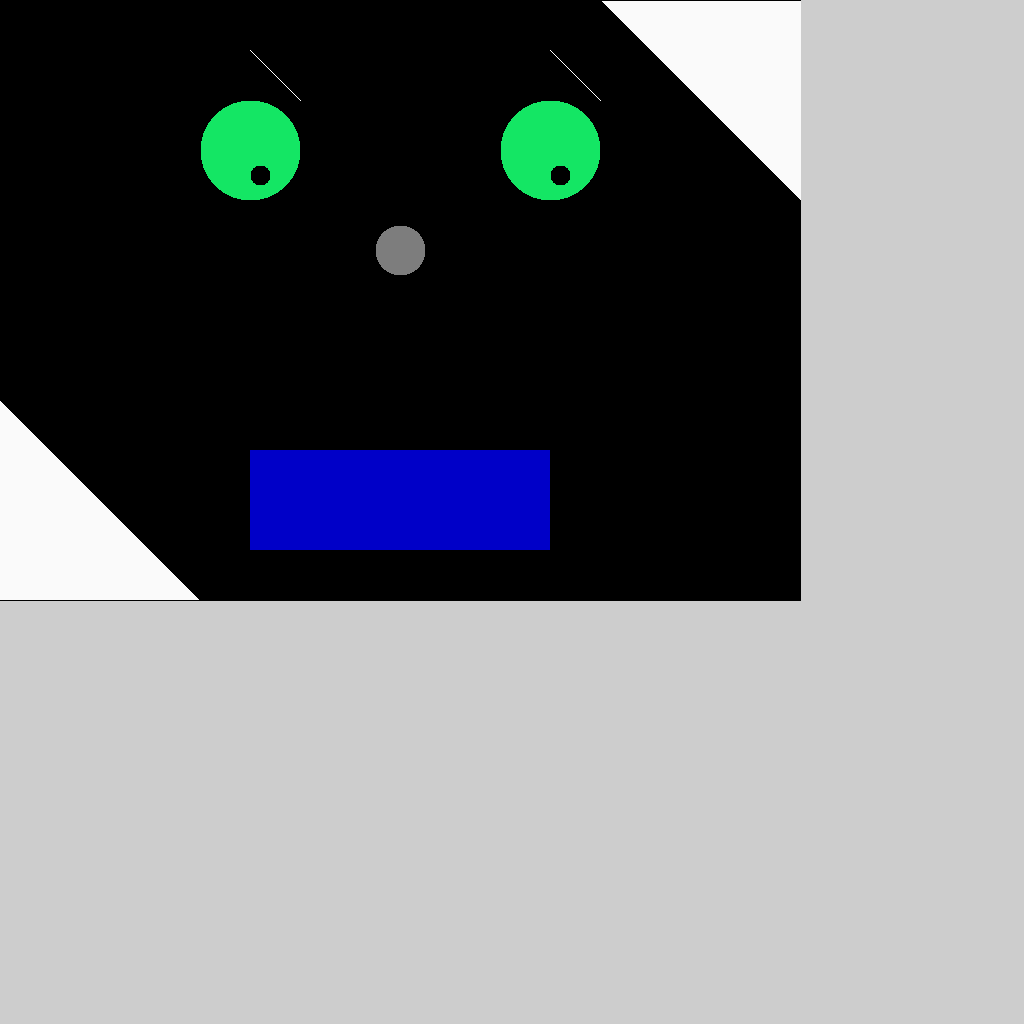
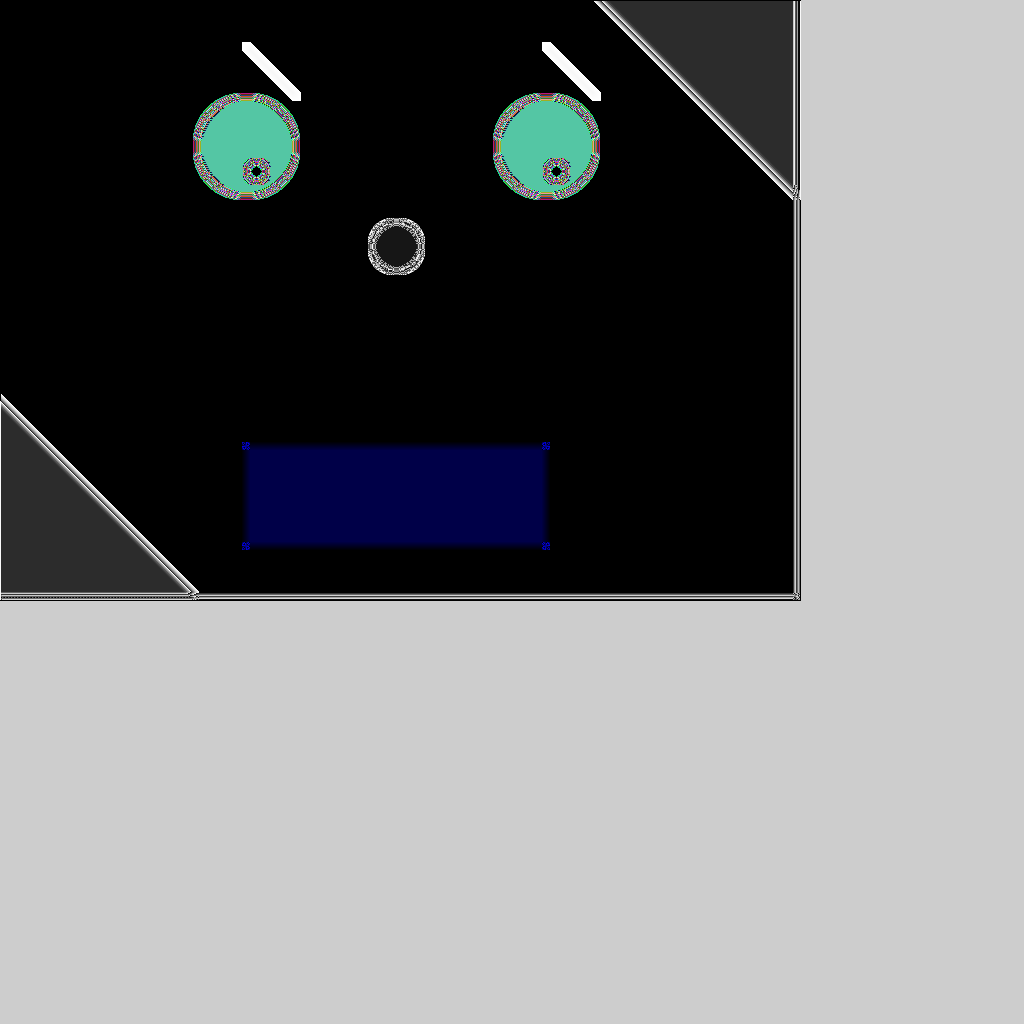
Some weird x-ray effect instead of blur

diff --git a/src/CatPictureApp.cpp b/src/CatPictureApp.cpp
@@ -201,28 +201,38 @@ void CatPictureApp::blurSurface(uint8_t* pixels){
 	static uint8_t work_buffer[3*kTextureSize*kTextureSize];
 	memcpy(work_buffer, pixels, 3*kTextureSize*kTextureSize);
 	int offset;
+	Color8u c;
 	uint8_t* red = 0;
 	uint8_t* green = 0;
 	uint8_t* blue = 0;
 
 	//kernels to blur image
-	float kernelA[9] = {4,4,4,4,4,4,4,4,4};
+	float kernelA[9] = {1/9.0, 1/9.0, 1/9.0, 1/9.0, 1/9.0, 1/9.0, 1/9.0, 1/9.0, 1/9.0};
 
 	for(int y = 1; y < kAppHeight; y++){
 		for(int x = 1; x < kAppWidth; x++){
 			offset = 3*(x+y*kAppWidth);
+			red = 0;
+			green = 0;
+			blue = 0;
 
 			for(int i = 0; i < 9; i++){
 				for(int j = 0; j < 9; j++){
+					offset = 3*(x+j + (y+i)*kTextureSize);
+					int k = kernelA[j + i*3];
 					int xloc = x+i-offset;
 					int yloc = y+j-offset;
 					int loc = xloc + yloc*kAppWidth;
 
-					red += (work_buffer[offset]);
-					green += (work_buffer[offset+1]);
-					blue += (work_buffer[offset+2]);
+					red += (work_buffer[offset] >> k);
+					green += (work_buffer[offset+1] >> k);
+					blue += (work_buffer[offset+2] >> k);
 				}
 			}
+			c = Color8u((int)red, (int)green, (int)blue);
+			pixels[(3*(x + y*kTextureSize))] = c.r;
+			pixels[(3*(x + y*kTextureSize)+1)] = c.g;
+			pixels[(3*(x + y*kTextureSize)+2)] = c.b;
 		}
 	}
 }
@@ -243,7 +253,8 @@ void CatPictureApp::setup()
 */
 void CatPictureApp::mouseDown( MouseEvent event )
 {
-			MessageBox(NULL, L"Hello, my name is Bobby.", NULL, MB_OK);
+	uint8_t* pixels = (*mySurface).getData();
+	MessageBox(NULL, L"Hello, my name is Bobby.", NULL, MB_OK);
 }
 
 void CatPictureApp::update()
